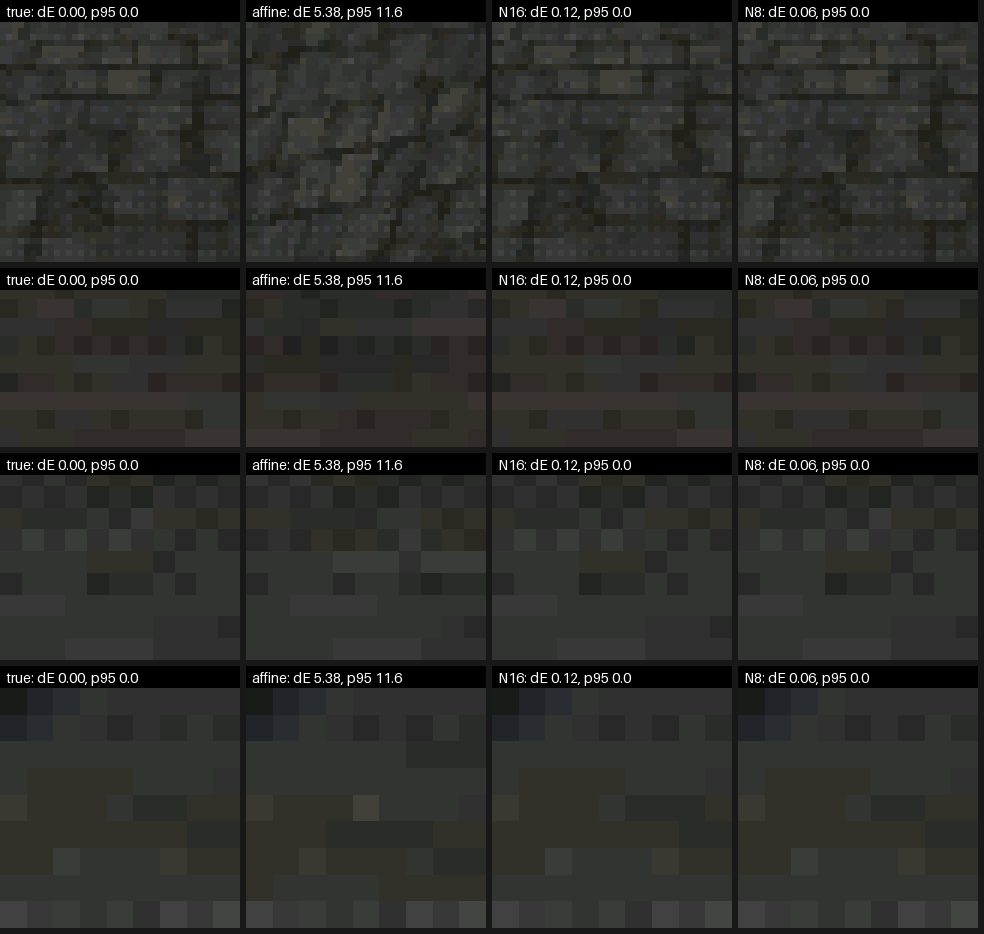
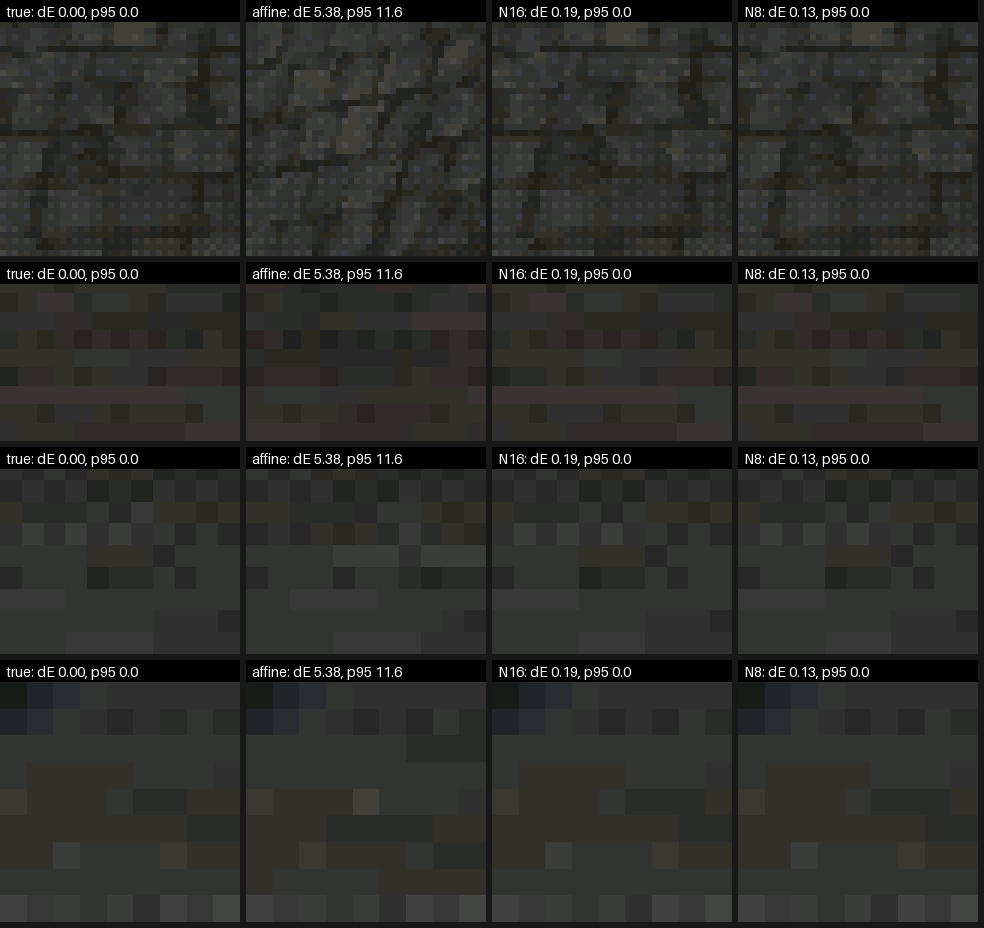
docs: LTEX says when a triangle steps affine and how far its segments grow; Bistro's divide figures at affine_bend 1 (we46)

diff --git a/docs/assets/formats/LTEX.md b/docs/assets/formats/LTEX.md
@@ -19,7 +19,9 @@ runs from black (matches the source) through red to yellow.
 A span divides u and v by depth every `texture.divide_px` pixels, a
 [render setting](../../render/Render-Settings.md), and steps them affine
 between, so the floor near the camera keeps its rows straight; stepped
-affine across a whole span, they bend.
+affine across a whole span, they bend. A triangle that would bend less than
+`texture.affine_bend` texels steps affine throughout, and a dividing one
+doubles its segments, up to 32 pixels, while one segment would bend less.
 
 ![The near floor's squares where affine differs most from a divide every pixel: the true divide, affine, a divide every 16 and every 8 pixels, each with its CIE76 dE against the true divide over the frame's lowest third](../../images/render/bistro-street-divide.png)
 
